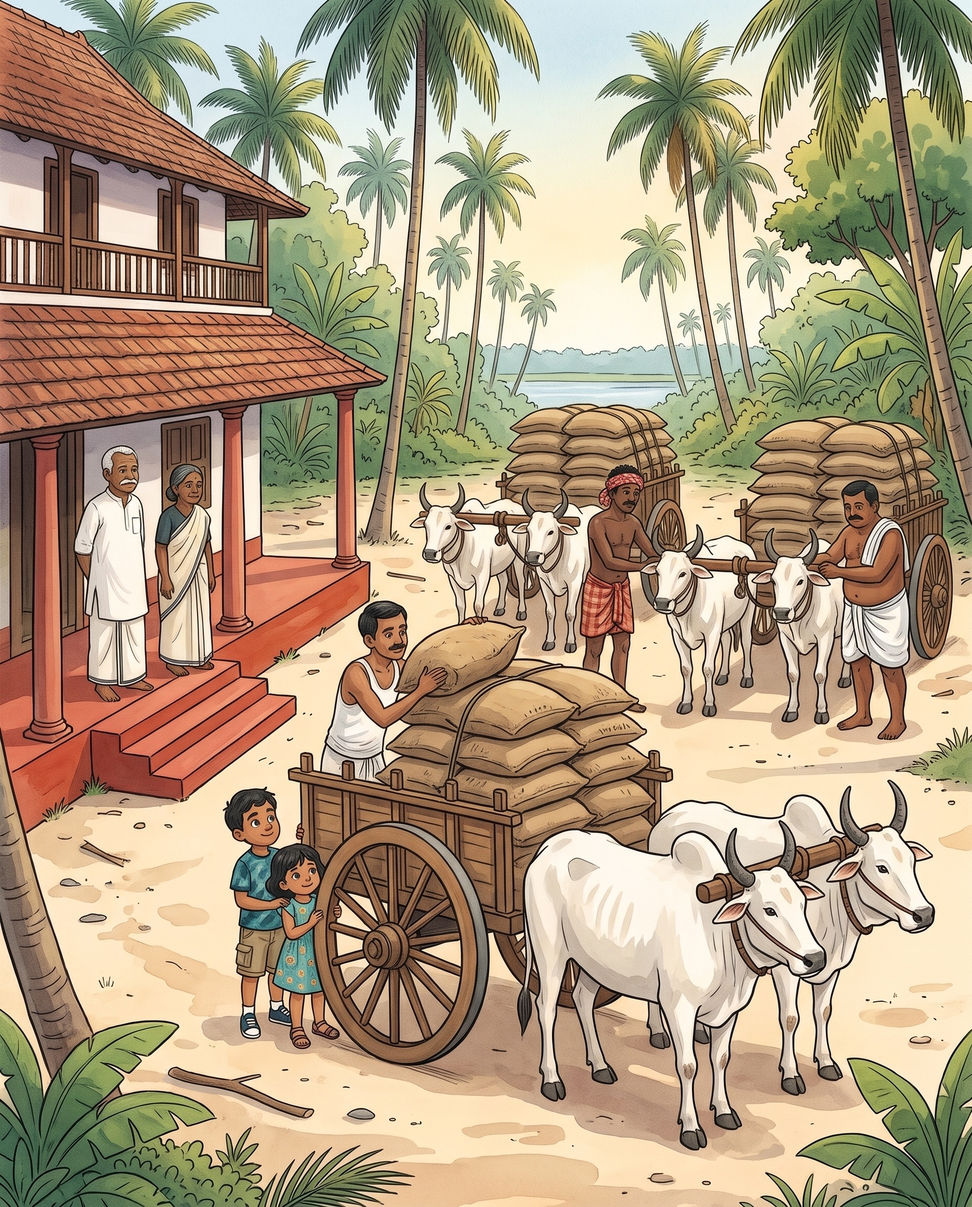
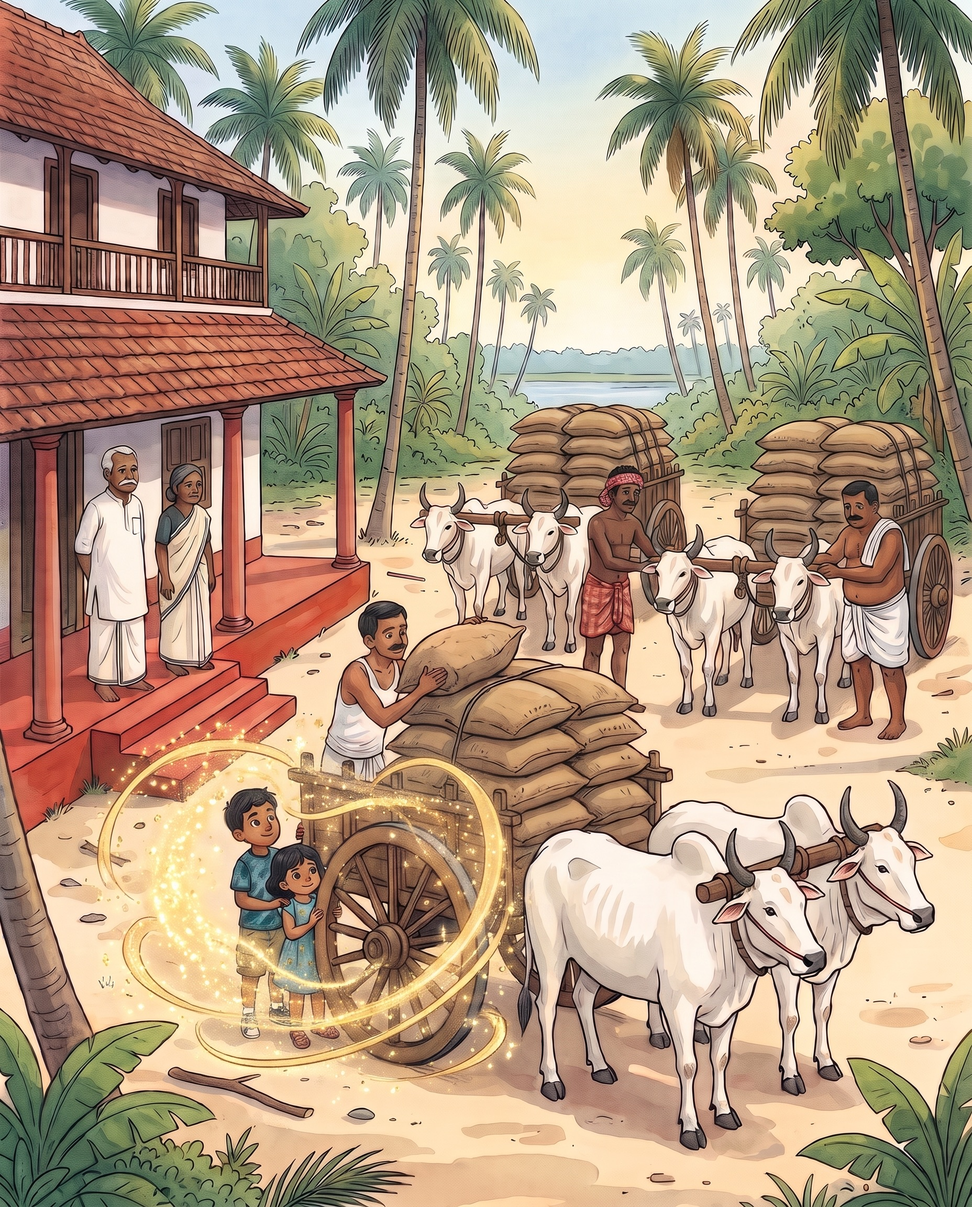
Comic ch.2 panels 4 and 5: the study swirl and the arrival sparkles
Panel 4 redrawn from Raju's approved wireframe: the same study as panels
1-3 (desk under the window, one chair, bookshelf to the right), the kids
half-turned with their backs to us as the swirl rises and their shoes
shimmer on. Panel 5: golden sparkles round the newly arrived kids.
Alt text and share sheets updated; cache version bumped.

diff --git a/comics/appuman-harvest/story.js b/comics/appuman-harvest/story.js
@@ -13,9 +13,9 @@ var PANELS = [
     bubbles: [[GRANDPA, "And sometimes he played the temple oracle! First he sat very still… then he began to tremble, slowly… then a great ROAR! As if Durga Bhagavathy had come into him!"], [GRANDPA, "Then he gave each of us a command in 'divine language'. And his sword was a coconut-frond stalk!"], [ACHU, "Again! Do it again!"], [GRANDPA + ' (yawning)', "Tomorrow. Now, sleep."]] },
   { alt: "Later that night, Achachan sleeps in the moonlit bedroom while, through the open doorway, Appu opens the handwritten book in the study and Achu puts a finger to her lips.",
     bubbles: [[APPU + ' (whispering)', "It's all in here, Achu. The whole story.", 'aside'], [ACHU + ' (whispering)', "Shhh! Don't wake Achachan!", 'aside']] },
-  { alt: "Golden ribbons of light rise from the book and swirl round the children as the study dissolves into palms and a two-storey house at dawn.",
+  { alt: "In the moonlit study, golden ribbons rise from the book on the desk and swirl round the children, their shoes shimmering onto their feet, while the window turns to dawn over palms and a two-storey house.",
     bubbles: [[APPU, "Here we go again!"], [ACHU, "Yay! We're going to see Appuman!"]] },
-  { alt: "Dawn at Kandassankadavu: Appuman lifts the last sack onto the first of three bullock carts in a sandy yard, Grandpa and Devi chechi watch from the steps, and the children peek from behind a wheel.",
+  { alt: "Dawn at Kandassankadavu, golden sparkles still round the newly arrived children: Appuman lifts the last sack onto the first of three bullock carts in a sandy yard, Grandpa and Devi chechi watch from the steps, and the children peek from behind a wheel.",
     ml: "അപ്പുമാൻ മുത്തശ്ശന്റെ മരുമകനായിരുന്നു.",
     en: "Appuman was grandfather's nephew.",
     bubbles: [[ACHU, "Look at all those sacks!"], [APPU + ' (whispering)', "That must be Appuman! White mundu, sleeveless shirt, just like Achachan said.", 'aside']] },

diff --git a/comics/appuman-harvest/index.html b/comics/appuman-harvest/index.html
@@ -56,10 +56,10 @@
 
 <footer>An ongoing family archive · Korappath, Chiyyaram, Thrissur</footer>
 
-<script src="story.js?v=5"></script>
+<script src="story.js?v=6"></script>
 <script>
 var COMIC = {
-  v: '5',  // bump whenever a panel image changes, so browsers drop their cached copies
+  v: '6',  // bump whenever a panel image changes, so browsers drop their cached copies
   next: "Next time: Kunjan's rickshaw!",
   nextUrl: '../../stories/kunjan-rickshaw.html',
   nextLink: 'Read Chapter 3 →'
